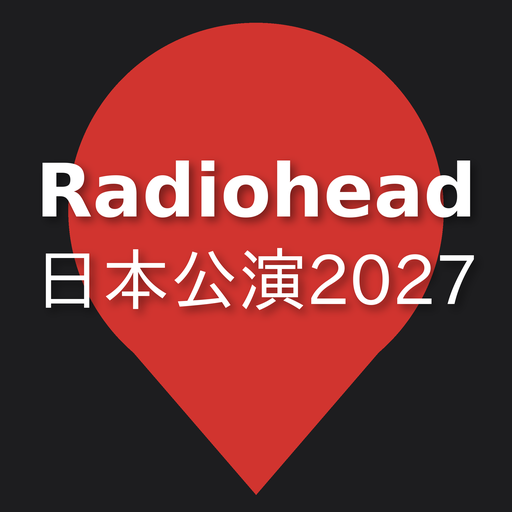
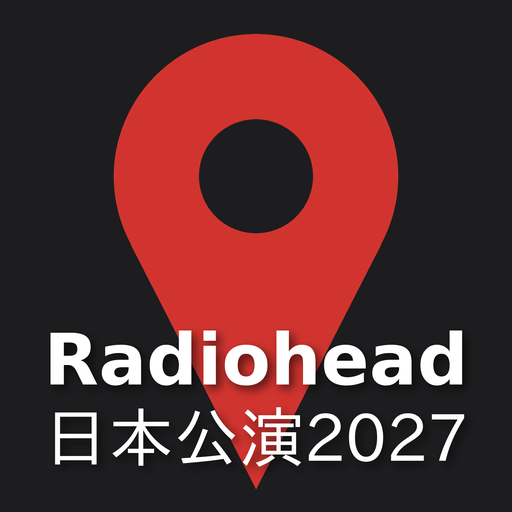
アイコンをスリムなピン（穴あり）＋下段に文字に変更、ホーム画面の名前を東京旅行2027に
Claude-Session: https://claude.ai/code/session_01CjuCr1VctogBegfmuWkTKr

diff --git a/index.html b/index.html
@@ -3,13 +3,13 @@
 <head>
 <meta charset="utf-8">
 <meta name="viewport" content="width=device-width, initial-scale=1, viewport-fit=cover">
-<title>東京 6/12–14</title>
+<title>東京旅行2027</title>
 <meta name="apple-mobile-web-app-capable" content="yes">
 <meta name="mobile-web-app-capable" content="yes">
-<meta name="apple-mobile-web-app-title" content="東京6月">
+<meta name="apple-mobile-web-app-title" content="東京旅行2027">
 <meta name="apple-mobile-web-app-status-bar-style" content="default">
 <meta name="theme-color" content="#ffffff">
-<link rel="apple-touch-icon" href="icon-180.png?v=3">
+<link rel="apple-touch-icon" href="icon-180.png?v=4">
 <link rel="manifest" href="manifest.webmanifest">
 <link rel="stylesheet" href="vendor/leaflet/leaflet.css">
 <link rel="stylesheet" href="style.css">

diff --git a/edit.html b/edit.html
@@ -6,7 +6,7 @@
 <title>確定と日程の編集</title>
 <meta name="apple-mobile-web-app-capable" content="yes">
 <meta name="theme-color" content="#ffffff">
-<link rel="apple-touch-icon" href="icon-180.png?v=3">
+<link rel="apple-touch-icon" href="icon-180.png?v=4">
 <link rel="stylesheet" href="style.css">
 <style>
   body { overflow-y: auto; }
